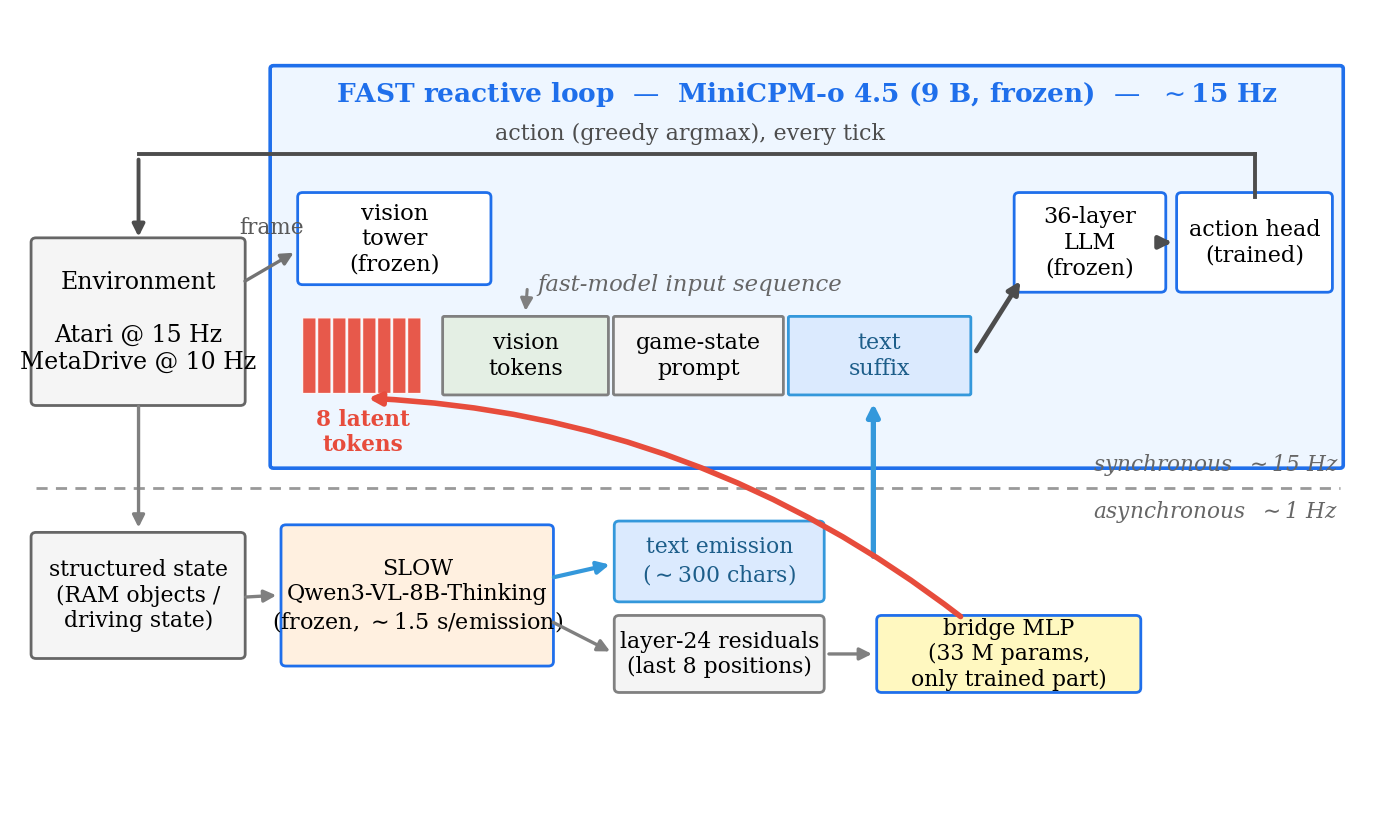
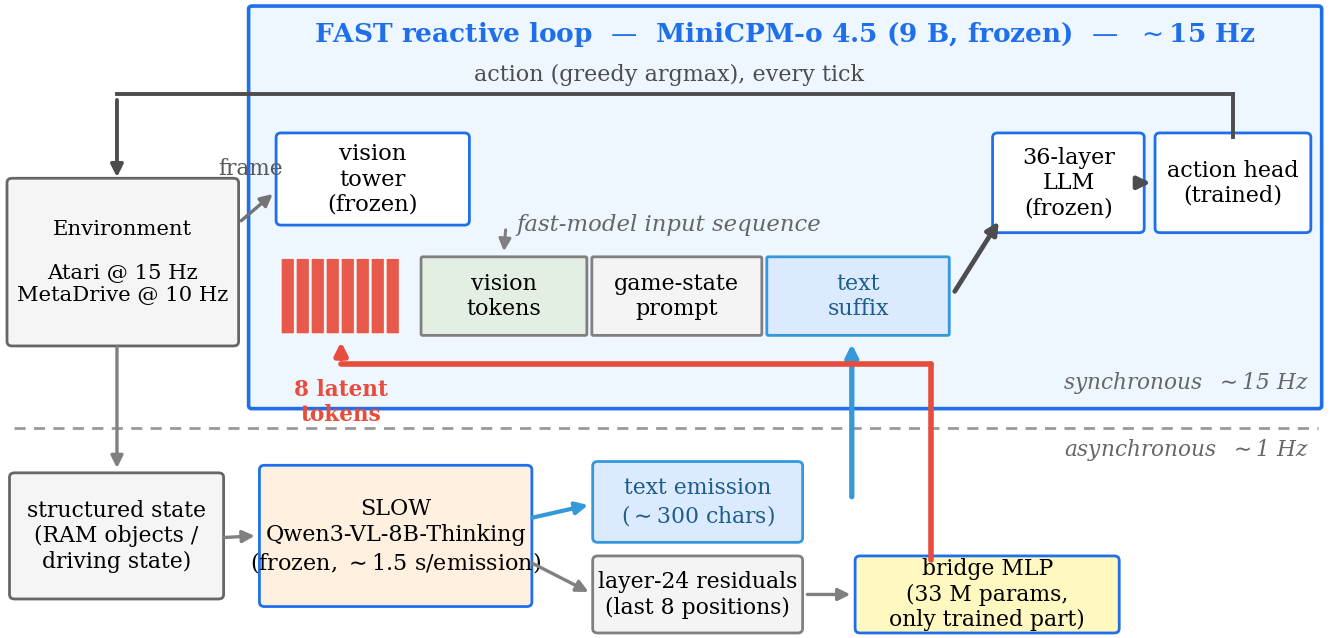
Paper: clean up system figure, move predictor figure inline, trim Discussion
- fig_system: reroute the latent arrow as a clean right-angle path (no longer
  grazes the lower-row boxes); move synchronous/asynchronous labels off the box
  border; remove top/bottom padding (tighten ylim + scale figure height);
  shrink/widen the Environment box so 'MetaDrive @ 10 Hz' no longer overflows
- Move the predictor figure (Fig 8) above its first citation so it renders on
  the same page, not a page later
- Remove the Discussion's 'Two sharpened claims' subsection (its two finding
  boxes merely restated results already in the evaluation)

Changed region(s): [[0.0, 0.0, 1.0, 1.0]]

diff --git a/paper/main.tex b/paper/main.tex
@@ -423,6 +423,21 @@ state decoder (speed, lane offset, heading, upcoming-turn cue, neighbours) for t
 This is, to our knowledge, the first non-game test of the Latent Bridge; the integration runs
 end-to-end on one GPU (Appendix~\ref{app:metadrive}).
 
+\begin{figure}[t]
+\centering
+\includegraphics[width=\textwidth]{figures/fig_predictor.pdf}
+\caption{\textbf{The Latent Bridge helps if and only if the slow model helps the task.}
+\emph{Left:} per-game Latent benefit $L\!-\!F$ vs.\ Text benefit $T\!-\!F$ across 7 Atari games
+and MetaDrive, on a signed-$\sqrt{\cdot}$ axis. Bold points are the reported-variant cell per game
+(Pearson $r=0.93$, $n=8$); faint grey points are all 16 evaluated cells ($r=0.96$), so the
+relationship is not an artifact of variant selection (robustness stats in
+Appendix~\ref{app:metadrive}). The bridge helps only in the upper-right quadrant ($T\!>\!F$ and
+$L\!>\!F$); MetaDrive (blue diamond) sits at the origin. \emph{Right:} in both MetaDrive
+regimes---reactive lane-keeping and planning-heavy intersections---slow reasoning never exceeds
+Fast-Only, even when the task demands route planning.}
+\label{fig:predictor}
+\end{figure}
+
 \paragraph{The bridge does not transfer to driving---and the controls explain why.}
 On the default lane-keeping map the Latent Bridge ties Fast-Only and the Text Bridge collapses; the
 bridge-replacement control (Appendix~\ref{app:bridge_replace}, method) shows the Latent Bridge is \emph{inert}
@@ -462,21 +477,6 @@ deliberation or perception--action?), not of the channel---and makes MetaDrive a
 controlled negative rather than a failed port. The bridge-replacement control is the diagnostic
 that separates a genuinely informative latent
 (MsPacman: $L_{\text{trained}}\!\gg\!L_{\text{random}}$) from an inert one (MetaDrive).
-
-\begin{figure}[t]
-\centering
-\includegraphics[width=\textwidth]{figures/fig_predictor.pdf}
-\caption{\textbf{The Latent Bridge helps if and only if the slow model helps the task.}
-\emph{Left:} per-game Latent benefit $L\!-\!F$ vs.\ Text benefit $T\!-\!F$ across 7 Atari games
-and MetaDrive, on a signed-$\sqrt{\cdot}$ axis. Bold points are the reported-variant cell per game
-(Pearson $r=0.93$, $n=8$); faint grey points are all 16 evaluated cells ($r=0.96$), so the
-relationship is not an artifact of variant selection (robustness stats in
-Appendix~\ref{app:metadrive}). The bridge helps only in the upper-right quadrant ($T\!>\!F$ and
-$L\!>\!F$); MetaDrive (blue diamond) sits at the origin. \emph{Right:} in both MetaDrive
-regimes---reactive lane-keeping and planning-heavy intersections---slow reasoning never exceeds
-Fast-Only, even when the task demands route planning.}
-\label{fig:predictor}
-\end{figure}
 
 \subsection{Corroboration: learned content tracks the predictor}
 \label{sec:learned_content}
@@ -540,28 +540,6 @@ Q*bert is the only $y<0$ point with a large $T$, but Enduro and River Raid (lowe
 % --------------------------------------------------------------------------
 \section{Discussion}
 \label{sec:discussion}
-
-\subsection{Two sharpened claims}
-
-\begin{finding}
-\textbf{Tuned per channel, the Latent Bridge is a safe-or-better drop-in for the Text Bridge.}
-Because the action decoder is a deployment hyperparameter, we give each channel its own best decoder
-on held-out seeds (\S\ref{sec:best_achievable}, Appendix~\ref{app:heldout}): there the Latent Bridge
-is \emph{never significantly worse} than the Text Bridge and significantly \emph{better} on 2 of 7
-games (MsPacman $+57\%$, RoadRunner $+28\%$), with 5 ties. A single fixed greedy decoder would
-inflate this to 4 apparent wins, but that edge is decoder-specific---it vanishes under sampling and
-flips on zero-variance cells (\S\ref{sec:qbert})---so the decoder-robust claim is the honest one.
-\end{finding}
-
-\begin{finding}
-\textbf{The Latent Bridge helps iff the slow model helps the task.} Pooling 7 Atari games and a
-driving domain, $L\!-\!F$ tracks $T\!-\!F$ at Pearson $r=0.93$ ($r=0.96$ over all 16 evaluated cells;
-Figure~\ref{fig:predictor}). Because the bridge is distilled toward the Text Bridge, the Latent Bridge's ceiling is the
-Text Bridge: the bridge is worthwhile exactly when slow reasoning beats reaction ($T\!>\!F$), and
-inert/harmful otherwise. MetaDrive is the controlled negative ($T\!\le\!F$ even in a planning-heavy
-regime, bridge-replacement control confirming an inert Latent Bridge). Whether a bridge pays off is thus a
-property of the task's bottleneck (deliberation vs.\ perception--action), not of the channel.
-\end{finding}
 
 \subsection{Limitations}
 

diff --git a/paper/figures/make_paper_figures.py b/paper/figures/make_paper_figures.py
@@ -89,11 +89,14 @@ def fig_system():
     # Single-panel runtime architecture, sized close to \textwidth so on-page
     # downscaling is mild and the labels stay legible. The F/T/L strategies and
     # the training pipeline are described in the body text, not here.
-    fig = plt.figure(figsize=(8.6, 5.1))
+    # ylim is set tight to the content band (1.45--9.85); the figure height is
+    # scaled to that band so the boxes keep their aspect and there is no empty
+    # top/bottom margin once the axes is cropped to the artists.
+    fig = plt.figure(figsize=(8.6, 4.12))
     ax = fig.add_subplot(111)
     ax.axis("off")
     ax.set_xlim(0, 16)
-    ax.set_ylim(0, 10.4)
+    ax.set_ylim(1.45, 9.85)
 
     def box(a, x, y, w, h, fc, ec, text, fs=8.5, tc="black", lw=1.0,
             weight="normal", style="round,pad=0.06", va="center"):
@@ -119,12 +122,12 @@ def fig_system():
             fontsize=9.5, color=C_ACC, ha="center", va="center", fontweight="bold")
 
     # Environment (far left, spans both halves)
-    box(ax, 0.15, 5.35, 2.45, 2.1, "#f5f5f5", "0.4",
-        "Environment\n\nAtari @ 15 Hz\nMetaDrive @ 10 Hz", fs=8.5)
+    box(ax, 0.12, 5.35, 2.66, 2.1, "#f5f5f5", "0.4",
+        "Environment\n\nAtari @ 15 Hz\nMetaDrive @ 10 Hz", fs=7.6)
 
     # vision tower
     box(ax, 3.35, 6.95, 2.2, 1.1, "white", C_ACC, "vision\ntower\n(frozen)", fs=8.2)
-    arrow(ax, 2.6, 6.9, 3.3, 7.35, color="0.45", lw=1.2)      # env frame -> vision tower
+    arrow(ax, 2.82, 6.9, 3.3, 7.35, color="0.45", lw=1.2)      # env frame -> vision tower
     ax.text(2.98, 7.5, "frame", fontsize=7.8, color="0.35", ha="center", va="bottom")
 
     # ---- input token strip: [L prefix][vision][state prompt][T suffix] ----
@@ -137,7 +140,7 @@ def fig_system():
         ax.add_patch(FancyBboxPatch((lx + i * 0.18, sy), 0.16, sh,
                                     boxstyle="round,pad=0", facecolor=C_L,
                                     edgecolor="white", linewidth=0.4, alpha=0.92))
-    ax.text(lx + 0.72, sy - 0.20, "8 latent\ntokens", fontsize=7.8,
+    ax.text(lx + 0.72, 4.86, "8 latent\ntokens", fontsize=7.8,
             color=C_L, ha="center", va="top", fontweight="bold")
     box(ax, 5.05, sy, 1.95, sh, "#e4efe4", "0.5", "vision\ntokens", fs=8.0,
         style="round,pad=0.02")
@@ -162,10 +165,10 @@ def fig_system():
 
     # ============== async divider ==============
     ax.plot([0.15, 15.8], [4.2, 4.2], ls=(0, (4, 3)), color="0.6", lw=1.0)
-    ax.text(15.78, 4.34, "synchronous  $\\sim$15 Hz", fontsize=7.8, color="0.4",
-            ha="right", va="bottom", style="italic")
-    ax.text(15.78, 4.06, "asynchronous  $\\sim$1 Hz", fontsize=7.8, color="0.4",
-            ha="right", va="top", style="italic")
+    ax.text(15.68, 4.80, "synchronous  $\\sim$15 Hz", fontsize=7.8, color="0.4",
+            ha="right", va="center", style="italic")
+    ax.text(15.68, 3.92, "asynchronous  $\\sim$1 Hz", fontsize=7.8, color="0.4",
+            ha="right", va="center", style="italic")
 
     # ============== SLOW MODEL (bottom) ==============
     box(ax, 0.15, 2.0, 2.45, 1.55, "#f5f5f5", "0.4",
@@ -189,11 +192,15 @@ def fig_system():
     box(ax, 10.3, 1.55, 3.05, 0.9, "#fff8c0", C_ACC,
         "bridge MLP\n(33 M params,\nonly trained part)", fs=7.9)
     arrow(ax, 9.6, 2.0, 10.25, 2.0, color="0.5", lw=1.2)
-    # MLP up to L prefix in the strip
-    arrow(ax, 11.3, 2.45, lx + 0.72, sy - 0.06, color=C_L, lw=2.0, rad=0.16)
+    # MLP -> latent prefix: clean right-angle route (rise, traverse below the
+    # strip, then up into the tokens) so it never grazes the lower-row boxes.
+    rx = 11.15
+    ax.plot([rx, rx], [2.45, 5.05], color=C_L, lw=2.0, solid_capstyle="round", zorder=3)
+    ax.plot([rx, lx + 0.72], [5.05, 5.05], color=C_L, lw=2.0, solid_capstyle="round", zorder=3)
+    arrow(ax, lx + 0.72, 5.05, lx + 0.72, sy - 0.03, color=C_L, lw=2.0)
 
-    fig.savefig(OUT / "fig_system.pdf")
-    fig.savefig(OUT / "fig_system.png", dpi=200)
+    fig.savefig(OUT / "fig_system.pdf", pad_inches=0.01)
+    fig.savefig(OUT / "fig_system.png", dpi=200, pad_inches=0.01)
     plt.close(fig)
     print("wrote fig_system.{pdf,png}")
 